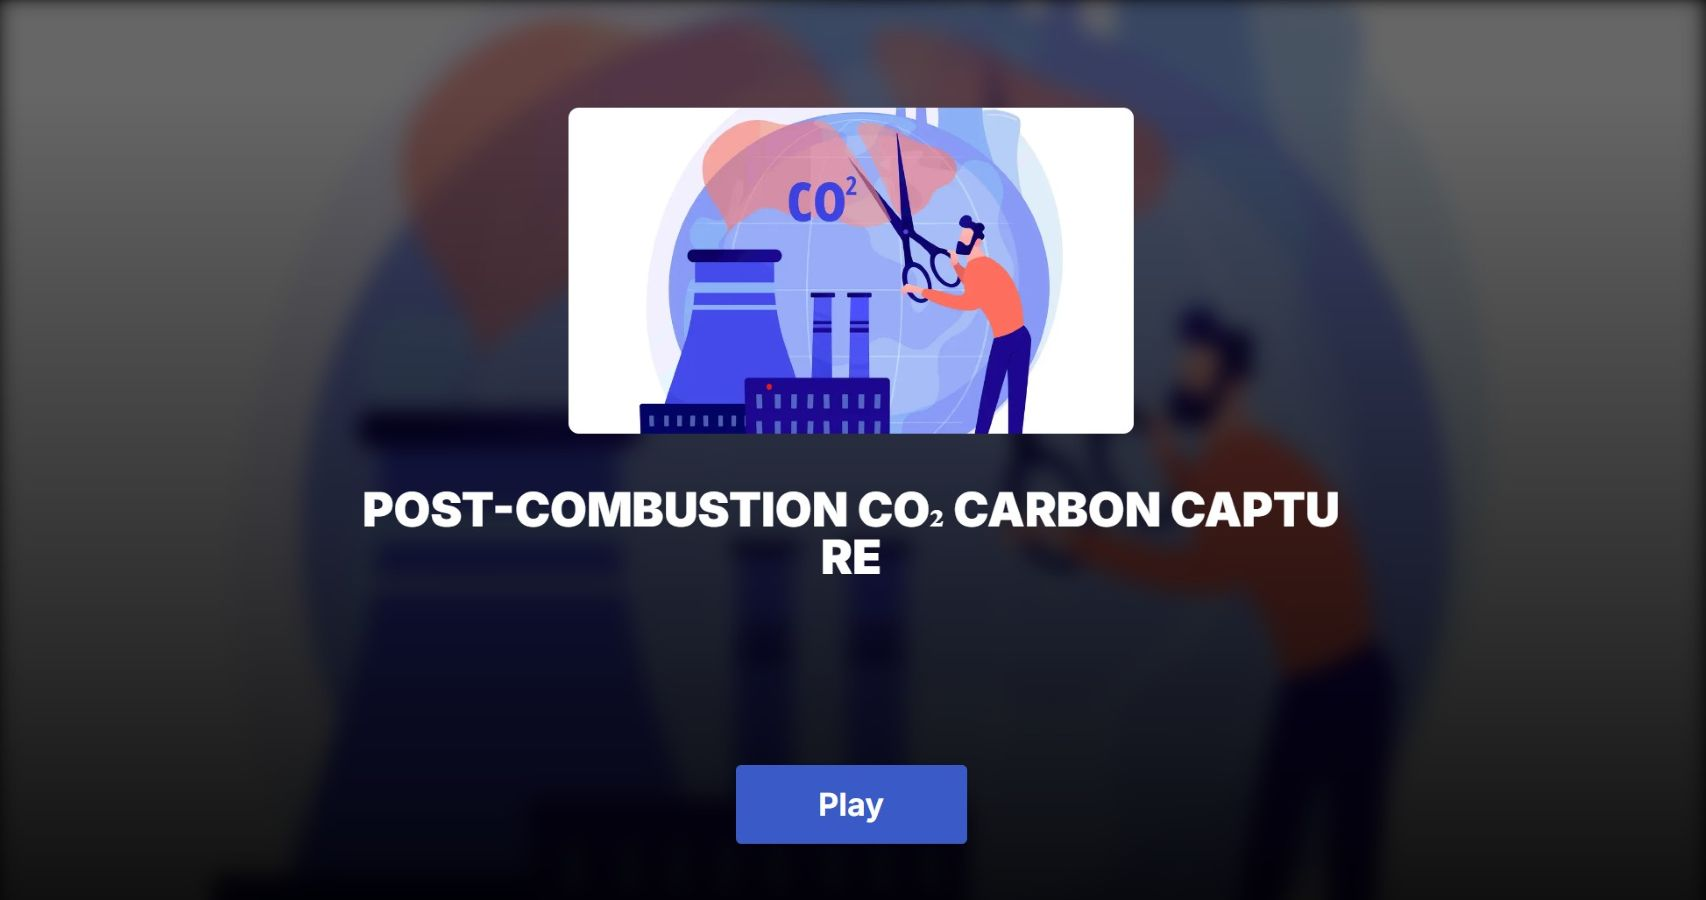
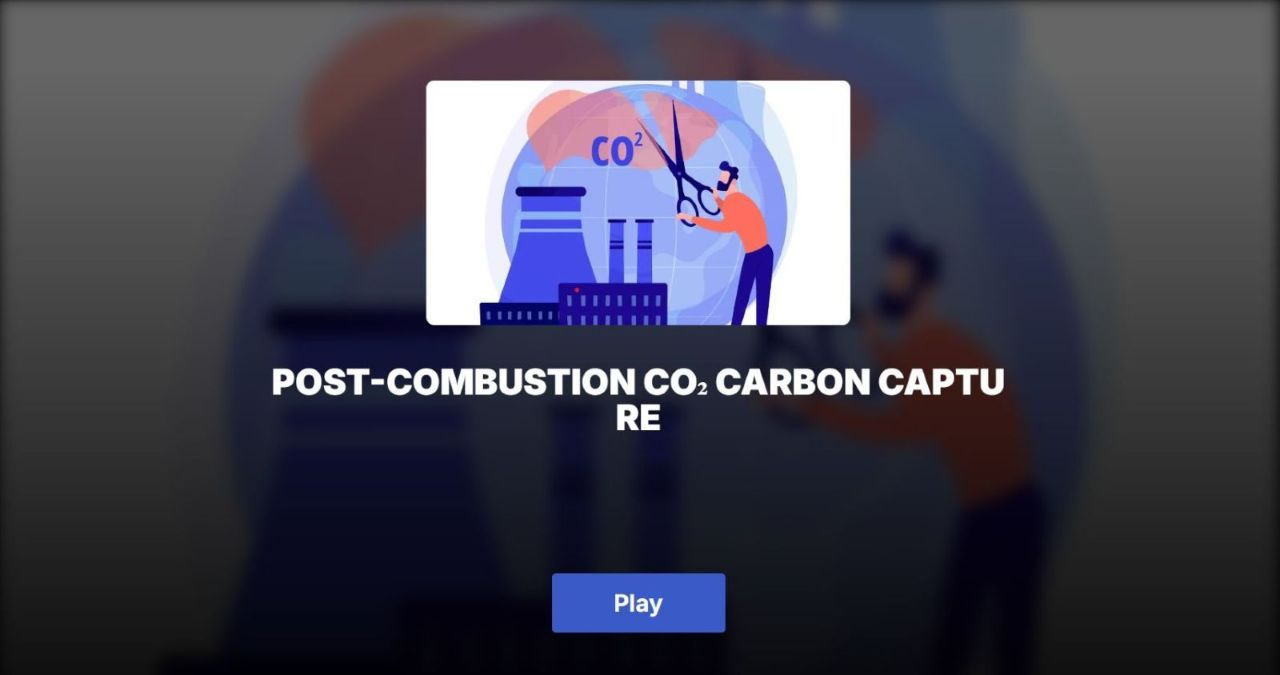
Checkpoint from VS Code for cloud agent session

diff --git a/index.html b/index.html
@@ -208,6 +208,14 @@
             margin-bottom: 2rem;
             letter-spacing: -0.02em;
             animation: loadPulse 1.4s ease-in-out infinite;
+            display: inline-flex;
+            gap: 0.08em;
+            transition: opacity 0.35s ease, transform 0.35s ease;
+        }
+        .loading-initials span { display: inline-block; }
+        #loading-screen.morphing .loading-initials {
+            opacity: 0;
+            transform: scale(0.92);
         }
         @keyframes loadPulse {
             0%,100% { transform: scale(1); opacity: 1; }
@@ -217,12 +225,34 @@
             width: 240px; height: 3px;
             background: rgba(255,255,255,0.08);
             border-radius: 10px; overflow: hidden;
+            transition: opacity 0.35s ease, transform 0.35s ease;
+        }
+        #loading-screen.morphing .loading-bar-wrap {
+            opacity: 0;
+            transform: translateY(8px);
         }
         .loading-bar {
             height: 100%;
             background: linear-gradient(90deg, var(--indigo), var(--pink), var(--cyan));
             background-size: 200% 100%;
             animation: loadFill 2s ease-in-out forwards, gradShift 1s linear infinite;
+        }
+        .morph-ghost {
+            position: fixed;
+            z-index: 10002;
+            pointer-events: none;
+            display: flex;
+            align-items: center;
+            justify-content: center;
+            font-family: 'Syne', sans-serif;
+            font-weight: 800;
+            line-height: 1;
+            background: linear-gradient(140deg, var(--text-primary) 30%, var(--cyan) 65%, var(--pink));
+            -webkit-background-clip: text;
+            background-clip: text;
+            -webkit-text-fill-color: transparent;
+            transform-origin: center center;
+            transition: transform 0.95s cubic-bezier(0.2,0.9,0.2,1), opacity 0.95s ease;
         }
         @keyframes loadFill  { from { width: 0 } to { width: 100% } }
         @keyframes gradShift { 0%,100% { background-position: 0% 50% } 50% { background-position: 100% 50% } }
@@ -475,6 +505,11 @@
             background-size: 200% 200%;
             opacity: 0;
             animation: heroUp 0.7s ease forwards 0.5s, heroShimmer 5s ease 1.5s infinite;
+        }
+        .hero-name .name-initial { display: inline-block; }
+        body.morph-done .hero-name {
+            opacity: 1;
+            animation: heroShimmer 5s ease 0.2s infinite;
         }
         @keyframes heroShimmer {
             0%,100% { background-position: 0% 50% }
@@ -1099,7 +1134,7 @@
 <div class="grid-overlay"></div>
 
 <div id="loading-screen">
-    <div class="loading-initials" id="loading-initials">HG</div>
+    <div class="loading-initials" id="loading-initials"><span id="loading-h">H</span><span id="loading-g">G</span></div>
     <div class="loading-bar-wrap"><div class="loading-bar"></div></div>
 </div>
 
@@ -1390,6 +1425,8 @@ const PORTFOLIO_DATA = {
             title:  "Post-Combustion CO₂ Carbon Capture Simulation",
             desc:   "Unity 3D educational simulation of a full 7-phase industrial CO₂ capture process using MEA solvent absorption. Architected in C# with dedicated manager classes (SimulationManager, TemperatureController, NotificationManager, UIManager), real-time parameter sliders, phase-by-phase 3D visualization, and a TextMeshPro UI layer. Built entirely from scratch as part of M.Sc. coursework at OVGU.",
             tags:   ["Unity 3D", "C#", "TextMeshPro", "URP", "3D Modeling", "Simulation"],
+            thumb:  "Images/co2-preview.jpg",
+            thumbPosition: "50% 10%",
             url:    "https://play.unity.com/en/games/30f22392-532c-41e1-b925-6191a9ea99c2/post-combustion-co-carbon-capture"
         },
         {
@@ -1551,6 +1588,8 @@ const PORTFOLIO_DATA_DE = {
             title:  "Post-Combustion CO₂-Abscheidungs-Simulation",
             desc:   "Unity-3D-Lernsimulation eines vollständigen 7-phasigen industriellen CO₂-Abscheidungsprozesses mit MEA-Lösungsabsorption. C#-Architektur mit dedizierten Manager-Klassen, Echtzeit-Parameter-Slider, phasenweise 3D-Visualisierung und TextMeshPro-UI. Vollständig von Grund auf im M.Sc.-Studium an der OVGU entwickelt.",
             tags:   ["Unity 3D", "C#", "TextMeshPro", "URP", "3D-Modellierung", "Simulation"],
+            thumb:  "Images/co2-preview.jpg",
+            thumbPosition: "50% 10%",
             url:    "https://play.unity.com/en/games/30f22392-532c-41e1-b925-6191a9ea99c2/post-combustion-co-carbon-capture"
         },
         {
@@ -1667,16 +1706,78 @@ window.addEventListener("pageshow", () => window.scrollTo(0, 0));
 /* ================================================================
    LOADING SCREEN
 ================================================================ */
-document.getElementById("loading-initials").textContent = PORTFOLIO_DATA.initials;
+const loadingH = document.getElementById("loading-h");
+const loadingG = document.getElementById("loading-g");
+function setLoadingInitials(initialsText) {
+    const initials = (initialsText || "HG").toUpperCase();
+    loadingH.textContent = initials[0] || "H";
+    loadingG.textContent = initials[1] || "G";
+}
+setLoadingInitials(PORTFOLIO_DATA.initials);
+
+function runInitialsMorph() {
+    const loadingScreen = document.getElementById("loading-screen");
+    const heroH = document.querySelector("#hero-name .name-h");
+    const heroG = document.querySelector("#hero-name .name-g");
+    if (!heroH || !heroG) return Promise.resolve();
+
+    const startH = loadingH.getBoundingClientRect();
+    const startG = loadingG.getBoundingClientRect();
+    const endH = heroH.getBoundingClientRect();
+    const endG = heroG.getBoundingClientRect();
+
+    function makeGhost(letter, startRect) {
+        const g = document.createElement("span");
+        g.className = "morph-ghost";
+        g.textContent = letter;
+        g.style.left = `${startRect.left}px`;
+        g.style.top = `${startRect.top}px`;
+        g.style.width = `${startRect.width}px`;
+        g.style.height = `${startRect.height}px`;
+        g.style.fontSize = `${startRect.height}px`;
+        document.body.appendChild(g);
+        return g;
+    }
+    const ghostH = makeGhost(loadingH.textContent, startH);
+    const ghostG = makeGhost(loadingG.textContent, startG);
+    loadingScreen.classList.add("morphing");
+
+    requestAnimationFrame(() => {
+        const dxH = (endH.left + endH.width / 2) - (startH.left + startH.width / 2);
+        const dyH = (endH.top + endH.height / 2) - (startH.top + startH.height / 2);
+        const sxH = Math.max(endH.width / Math.max(startH.width, 1), 0.35);
+        const syH = Math.max(endH.height / Math.max(startH.height, 1), 0.35);
+        ghostH.style.transform = `translate(${dxH}px, ${dyH}px) scale(${sxH}, ${syH})`;
+        ghostH.style.opacity = "0.08";
+
+        const dxG = (endG.left + endG.width / 2) - (startG.left + startG.width / 2);
+        const dyG = (endG.top + endG.height / 2) - (startG.top + startG.height / 2);
+        const sxG = Math.max(endG.width / Math.max(startG.width, 1), 0.35);
+        const syG = Math.max(endG.height / Math.max(startG.height, 1), 0.35);
+        ghostG.style.transform = `translate(${dxG}px, ${dyG}px) scale(${sxG}, ${syG})`;
+        ghostG.style.opacity = "0.08";
+    });
+
+    return new Promise(resolve => {
+        setTimeout(() => {
+            ghostH.remove();
+            ghostG.remove();
+            resolve();
+        }, 980);
+    });
+}
+
 window.addEventListener("load", () => {
     window.scrollTo(0, 0);
-    setTimeout(() => {
+    setTimeout(async () => {
+        await runInitialsMorph();
+        document.body.classList.add("morph-done");
         document.getElementById("loading-screen").classList.add("fade-out");
         setTimeout(() => {
             document.body.classList.remove("preload");
             startTypewriter(pendingRole || (currentLang === "de" ? PORTFOLIO_DATA_DE.role : PORTFOLIO_DATA.role));
-        }, 560);
-    }, 1800);
+        }, 420);
+    }, 1300);
 });
 
 /* ================================================================
@@ -1981,6 +2082,16 @@ function setLanguage(lang) {
     renderDynamic(lang === "de" ? PORTFOLIO_DATA_DE : PORTFOLIO_DATA, lang);
 }
 
+function setHeroName(fullName) {
+    const heroNameEl = document.getElementById("hero-name");
+    const parts = (fullName || "").trim().split(/\s+/);
+    const first = parts[0] || "Hashwanth";
+    const second = parts[1] || "Ghanta";
+    const firstInitial = first.charAt(0) || "H";
+    const secondInitial = second.charAt(0) || "G";
+    heroNameEl.innerHTML = `<span class="name-initial name-h">${firstInitial}</span>${first.slice(1)} <span class="name-initial name-g">${secondInitial}</span>${second.slice(1)}`;
+}
+
 const modalEl = document.getElementById("project-modal");
 const modalTitleEl = document.getElementById("project-modal-title");
 const modalPeriodEl = document.getElementById("project-modal-period");
@@ -2038,6 +2149,8 @@ function renderDynamic(data, lang) {
     }
 
     /* Hero */
+    setHeroName(data.name);
+    setLoadingInitials(data.initials);
     if (document.body.classList.contains("preload")) {
         pendingRole = data.role;
         document.getElementById("hero-role").textContent = "";
@@ -2131,7 +2244,7 @@ function renderDynamic(data, lang) {
             ? `<a href="${proj.url}" target="_blank" rel="noopener noreferrer" class="proj-btn proj-btn-primary">${s.proj_open_live}</a>`
             : "";
         const mediaInner = proj.thumb
-            ? `<img src="${proj.thumb}" alt="${proj.title} preview">`
+            ? `<img src="${proj.thumb}" alt="${proj.title} preview" style="object-position:${proj.thumbPosition || "50% 50%"};">`
             : `<div class="proj-media-fallback"><div class="proj-media-icon">${proj.icon}</div><div class="proj-media-label">${proj.title}</div></div>`;
         const media = proj.url
             ? `<a class="proj-media proj-media-link" href="${proj.url}" target="_blank" rel="noopener noreferrer" aria-label="Open ${proj.title} demo">${mediaInner}</a>`
@@ -2213,7 +2326,7 @@ const heroInitials = document.getElementById("hero-photo-initials");
 heroImg.onload = () => { heroImg.style.display = "block"; heroInitials.style.display = "none"; };
 heroImg.src = PORTFOLIO_DATA.heroPhoto;
 
-document.getElementById("hero-name").textContent = PORTFOLIO_DATA.name;
+setHeroName(PORTFOLIO_DATA.name);
 
 const resumeBtn = document.getElementById("resume-btn");
 
